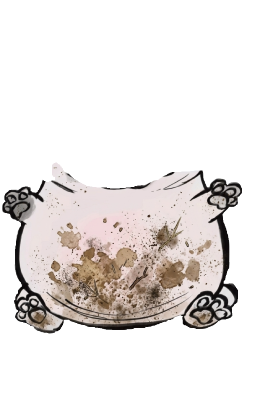
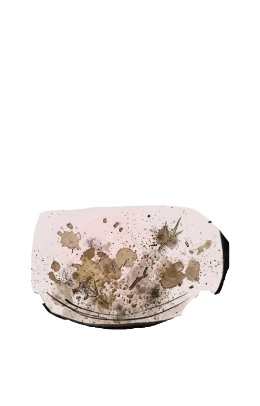
Estilización de titulo, modificación en pibble sucio, página responsiva con moviles y pc, eliminación de scrollbar añadida, modicación de botón iniciar sesión.

Changed region(s): [[0.0, 0.3842, 0.9538, 0.8276], [0.6769, 0.6798, 0.9231, 0.8276]]

diff --git a/frontend/homeJuegoPibble/pibble.css b/frontend/homeJuegoPibble/pibble.css
@@ -69,7 +69,8 @@ body {
     background: transparent;
     display: block;
     height: auto;
-    overflow-y: auto;
+    overflow-y: hidden;
+    overflow: hidden;
 }
 html {
     background: transparent;
@@ -90,7 +91,7 @@ html {
 .titulo-pibble {
     font-family: 'Press Start 2P', cursive;
     color: #ffffff;
-    font-size: clamp(25px, 2.5vw, 14px);
+    font-size: clamp(30px, 2.5vw, 17px);
     line-height: 1.5;
 }
 
@@ -168,8 +169,8 @@ canvas {
     color: #ffffff;
     border: none;
     border-radius: 12px;
-    padding: 0.6rem 1.4rem;
-    font-size: 0.75rem;
+    padding: 1rem 2.5rem;
+    font-size: 1.3rem;
     font-family: 'Press Start 2P', cursive;
     letter-spacing: 1px;
     text-align: center;
@@ -178,13 +179,14 @@ canvas {
     cursor: not-allowed;
     opacity: 0.5;
     transition: all 0.3s ease;
-    box-shadow: 0 0 10px rgba(29, 185, 84, 0.4);
+    box-shadow: 0 0 15px rgba(29, 185, 84, 0.5);
 }
 
 #boton-login.activo {
     display: inline-block;
     cursor: pointer;
     opacity: 1;
+    margin-top: 20px;
 }
 
 #boton-login.activo:hover {

diff --git a/frontend/homeJuegoPibble/pibble.js b/frontend/homeJuegoPibble/pibble.js
@@ -188,7 +188,18 @@ document.addEventListener("DOMContentLoaded", () => {
     canvas.addEventListener("mouseup", detenerDibujo);
     canvas.addEventListener("mouseleave", detenerDibujo);
 
-    canvas.addEventListener("touchstart", iniciarDibujo);
-    canvas.addEventListener("touchmove", dibujar);
-    canvas.addEventListener("touchend", detenerDibujo);
+    canvas.addEventListener("touchstart", (e) => {
+        e.preventDefault();
+        iniciarDibujo(e);
+    }, { passive: false });
+
+    canvas.addEventListener("touchmove", (e) => {
+        e.preventDefault();
+        dibujar(e);
+    }, { passive: false });
+
+    canvas.addEventListener("touchend", (e) => {
+        e.preventDefault();
+        detenerDibujo();
+    });
 });

diff --git a/frontend/estilosGlobales.css b/frontend/estilosGlobales.css
@@ -25,12 +25,12 @@ footer {
 /* Header personalizado */
 .custom-header .title {
     font-family: 'Press Start 2P', cursive;
-    font-size: 18px;
+    font-size: 20px;
 }
 /* Subtítulos personalizados */
 .titulo-columna {
     font-family: 'Press Start 2P', cursive !important;
-    font-size: 14px;
+    font-size: 19px;
     letter-spacing: 1px;
     color: #ffffff;
 }

diff --git a/visualizaciones/home.py b/visualizaciones/home.py
@@ -32,7 +32,15 @@ def mostrar_pantalla_pibble():
         pass
     
     render_header()
-    st.title("SpibblePy")
+    st.markdown("""
+                <h1 style="
+                text-align: allign;
+                font-size: clamp(2.5rem, 6vw, 4.5rem);;
+                font-family: 'Press Start 2P', cursive;
+                color: #ffffff;
+                text-shadow: 0 0 10px #8a2be2, 0 0 20px #a855f7;
+                margin-bottom: 20px;
+                ">SpibblePy</h1>""", unsafe_allow_html=True)
     #después de que spotify apruebe el acceso, devuelve al usuario a la app poniendo un parámetro "?code="
     #cuando eso ocurre, detectamos la palabra, y si la detectamos, sabemos que el usuario ya se autenticó
     if "code" in st.query_params:
@@ -96,9 +104,9 @@ def mostrar_pantalla_pibble():
         iframeCode = f'''<iframe
         src="data:text/html;base64,{htmlb64}"
         width="100%"
-        height = 950 if st.session_state.get("is_mobile", False) else 950
-        allowtransparency="true"
-        style="border:none; background:transparent;"
+        height="1400"
+        style="border:none; background:transparent; overflow:hidden;"
+        scrolling="no"
         sandbox="allow-scripts allow-same-origin allow-top-navigation"
         ></iframe>'''
         st.markdown(iframeCode, unsafe_allow_html=True)    
